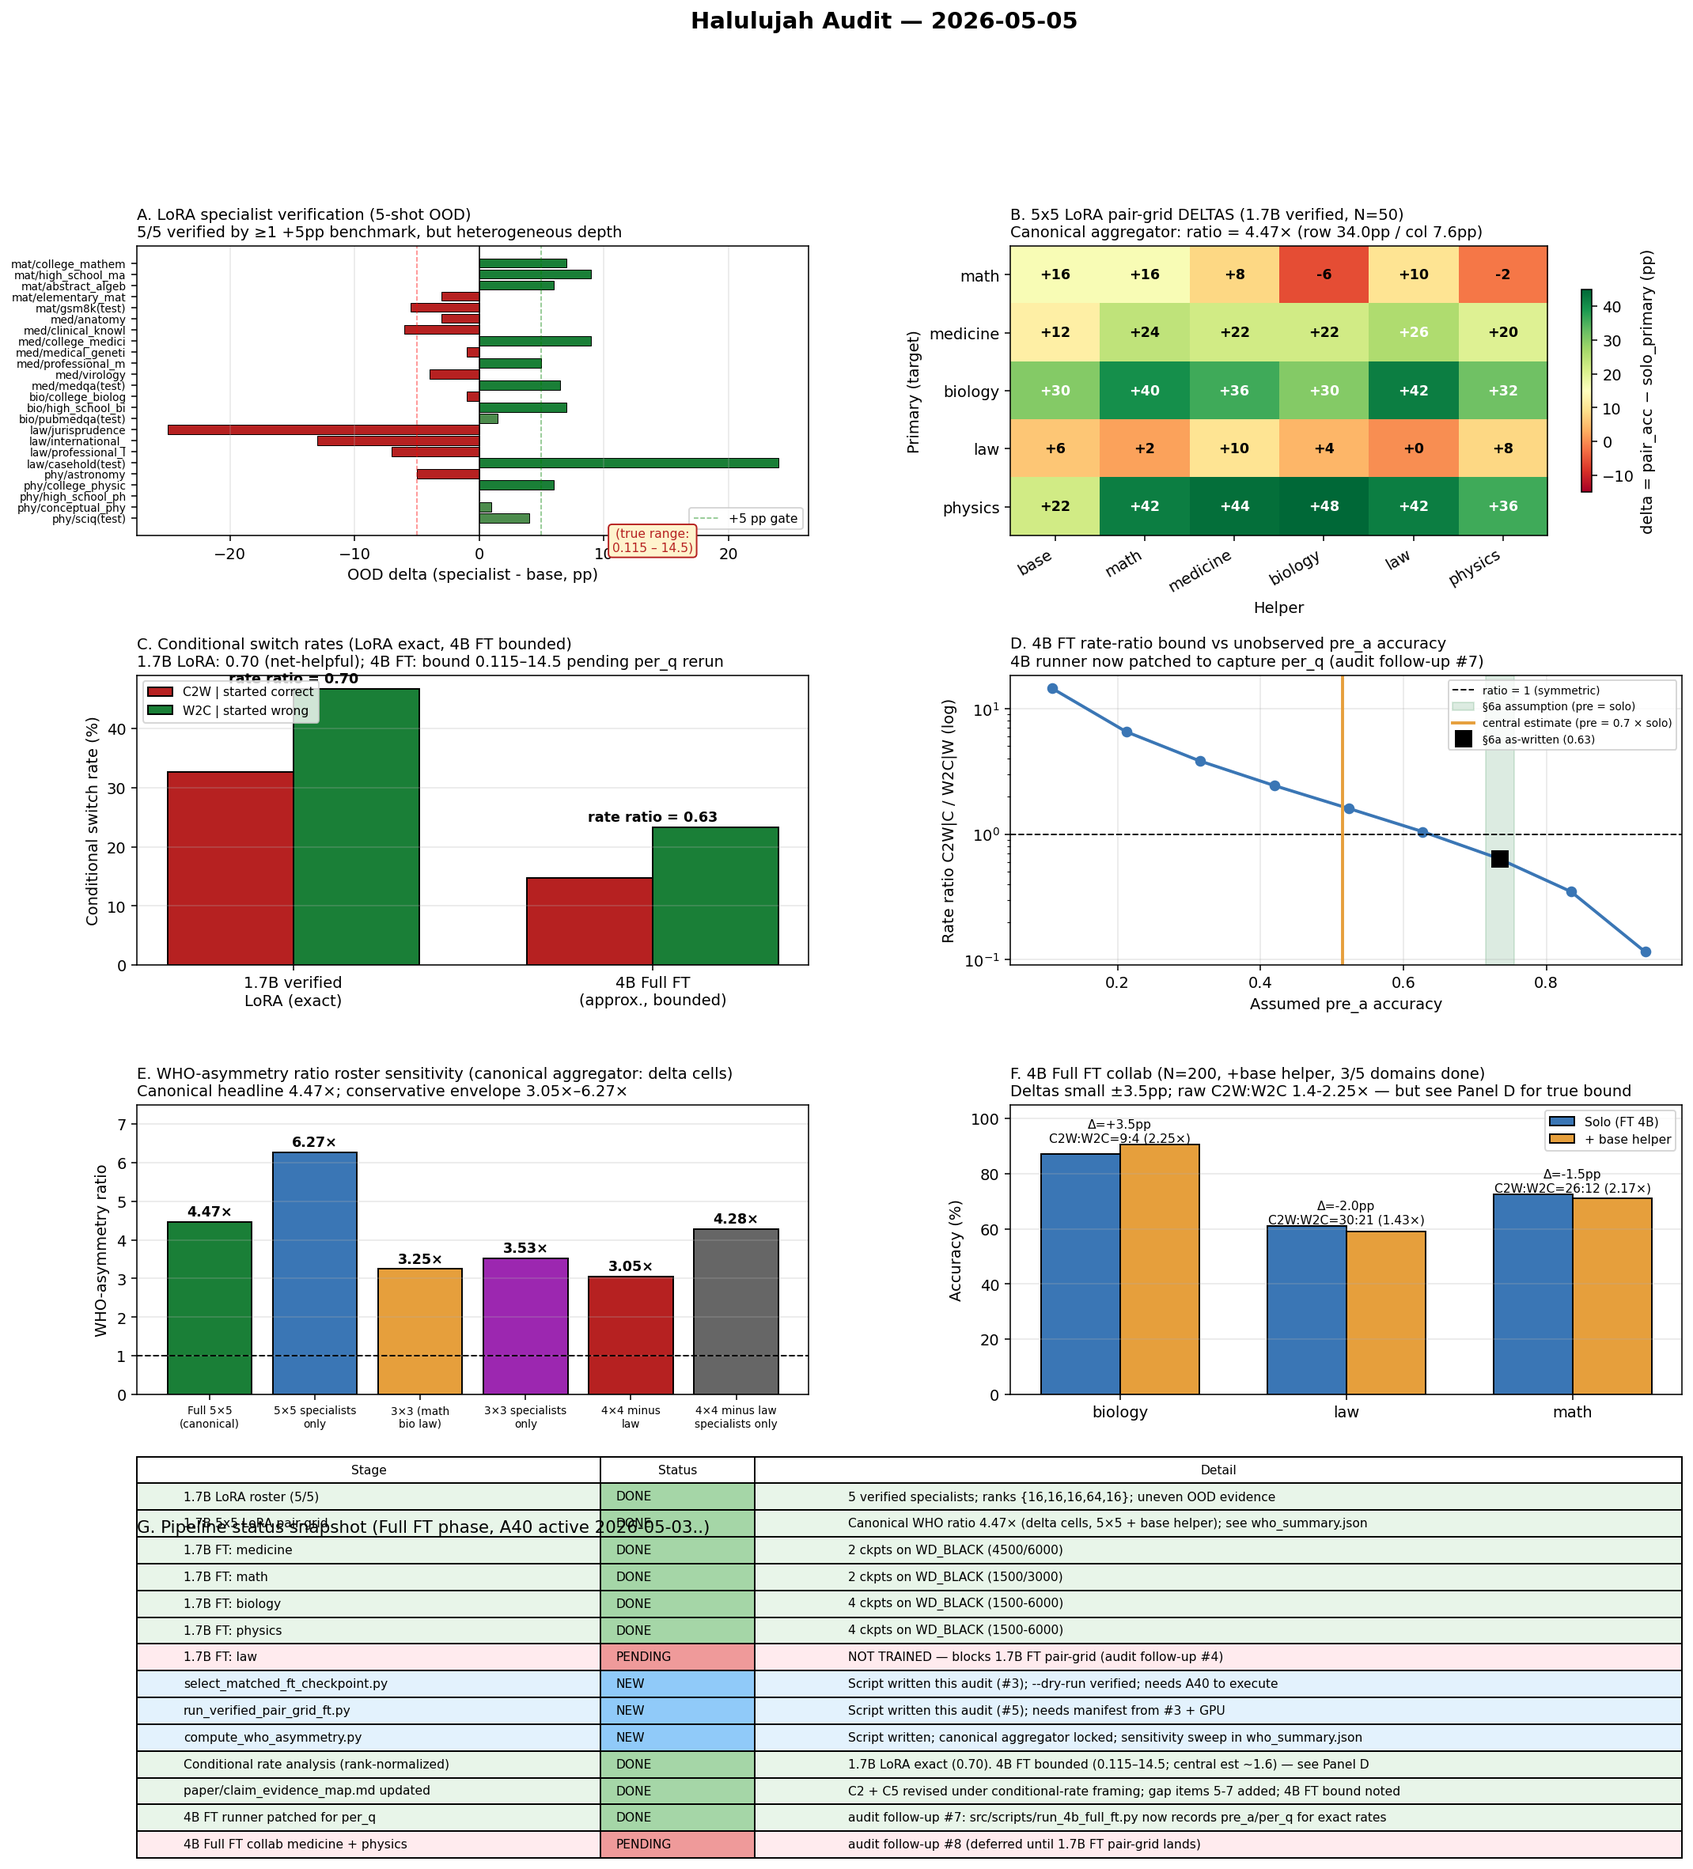
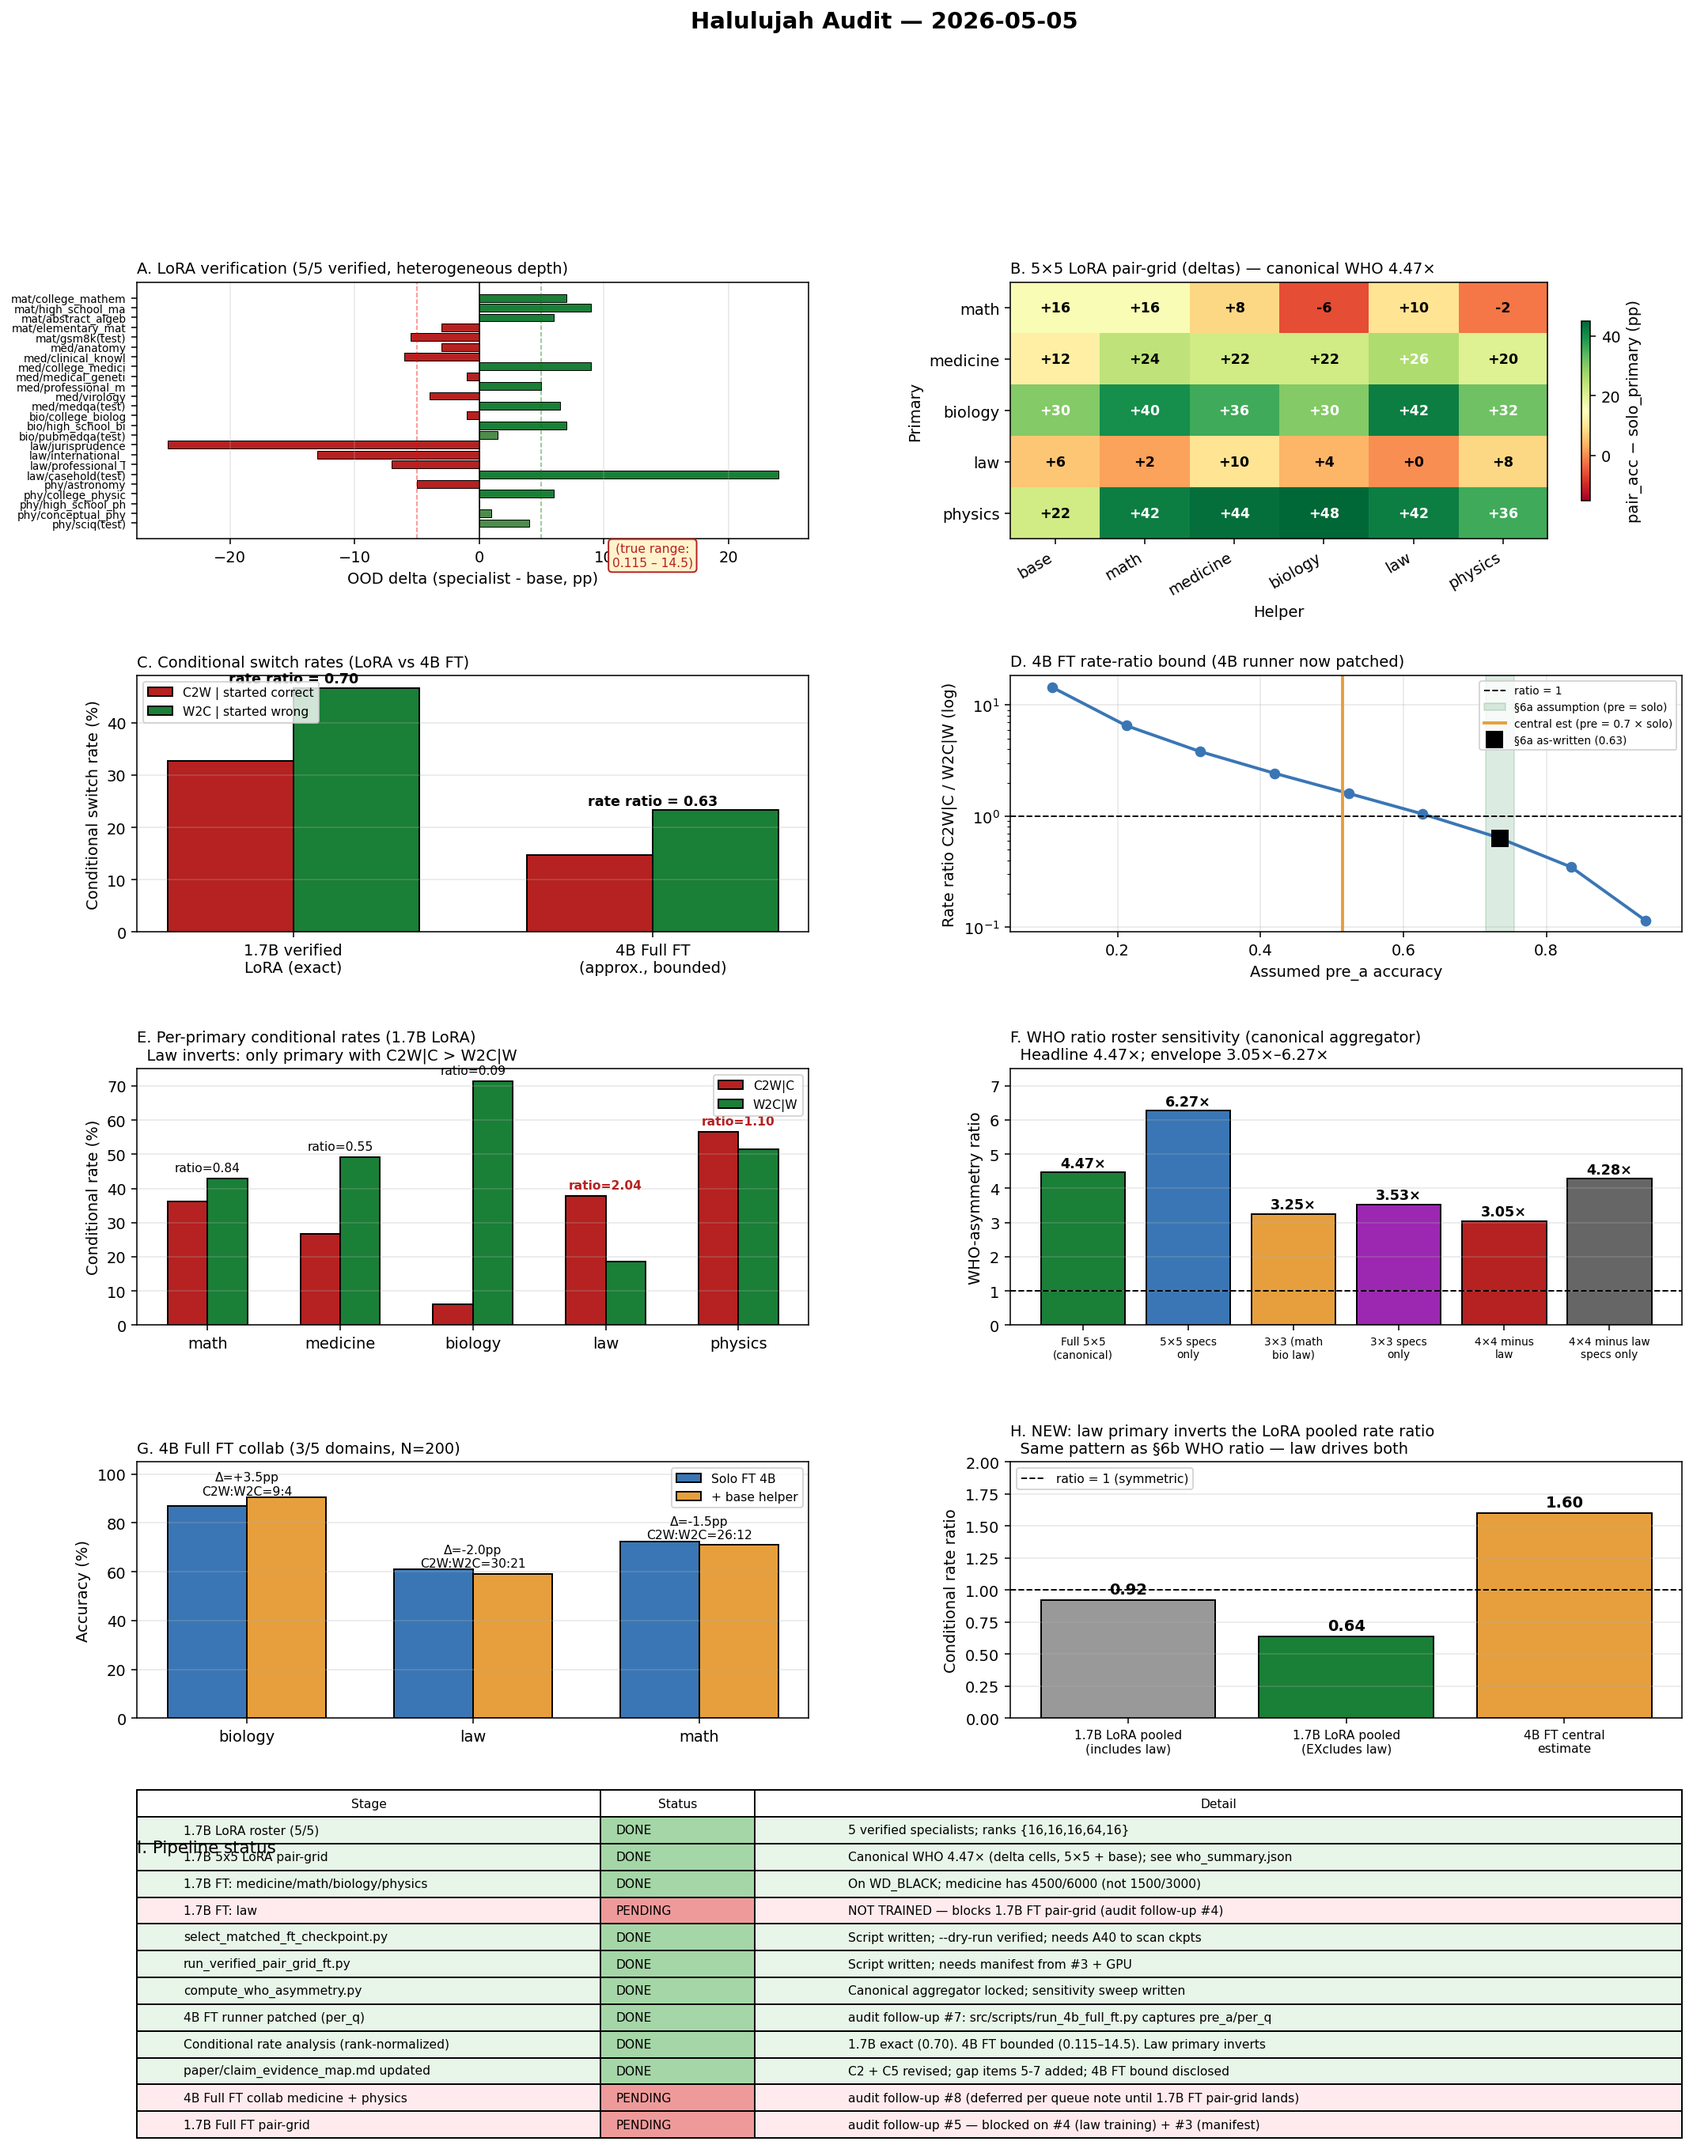
audit-2026-05-05 follow-up #2 deepening: per-primary cell-level rates expose law-as-confound
Per-primary breakdown of the 1.7B verified-LoRA conditional rate
ratio across all 30 cells (5 primaries x 6 helpers):

  primary   pre_acc   C2W|C   W2C|W   ratio
  math       3.7%    36.1%   42.9%   0.84
  medicine  10.0%    26.8%   49.1%   0.55
  biology    8.0%     6.1%   71.5%   0.09
  law       42.3%    37.8%   18.5%   2.04   <-- only primary > 1.0
  physics   10.0%    56.5%   51.5%   1.10

Law is the ONLY primary in the entire grid with rate ratio > 1.0.
Every other specialist + base shows W2C|W > C2W|C (net-helpful
collaboration). Excluding law, the pooled cell-mean rate ratio drops
from 0.92 to 0.64.

This is the same pattern the WHO-asymmetry ratio shows in §6b: the
ratio drops from 4.47x (full 5x5) to 3.05x (4x4 minus law). Two
independent metrics converge: law is a structural confound.

Diagnosis is consistent with law's separate verification result —
+24pp on CaseHOLD-test but -25/-13/-7pp on three MMLU-law subjects.
Law is a CaseHOLD format-matcher; its training has shifted *which*
direction the LoRA-amplified switching goes, but not the
amplification itself.

Audit §6a-bis added documenting this. paper/claim_evidence_map.md
gap item #8 added. Figure now has 9 panels (added E per-primary
rates and H pooled with/without law).

diff --git a/tasks/audit-2026-05-05.md b/tasks/audit-2026-05-05.md
@@ -361,6 +361,64 @@ the *raw-accuracy* aggregator on the 3×3 restricted roster. With the
 canonical *delta* aggregator the same restriction gives 3.25×; this
 is the new conservative lower bound to disclose.)
 
+## 6a-bis. Per-primary conditional rate ratio: law is the lone outlier
+
+Cell-level per-primary breakdown of the conditional rate ratio
+(`/tmp/halulujah_audit/per_primary_conditional_rates.json`):
+
+| Primary | Mean pre_acc | Mean C2W&#124;C | Mean W2C&#124;W | Rate ratio |
+|---|---:|---:|---:|---:|
+| math | 3.7% | 36.1% | 42.9% | 0.84 |
+| medicine | 10.0% | 26.8% | 49.1% | 0.55 |
+| biology | 8.0% | 6.1% | 71.5% | **0.09** |
+| law | 42.3% | 37.8% | 18.5% | **2.04** |
+| physics | 10.0% | 56.5% | 51.5% | 1.10 |
+
+| Pooled (cell-mean of cell ratios) | | |
+|---|---:|---|
+| All 5 primaries | 0.92 | (close to 1.0; no clear net direction) |
+| Excluding law | **0.64** | (matches pooled 0.70 from §6a; net-helpful) |
+
+**Law is the only primary with rate ratio > 1.0 in the entire grid.**
+Every other specialist + base shows W2C|W > C2W|C — the agent flips
+to correct more often than away from correct. Law inverts this:
+C2W|C 37.8% vs W2C|W 18.5%.
+
+This is consistent with §1's separate finding that the law specialist
+is a CaseHOLD format-matcher: trained to recognise legal-citation
+patterns (+24 pp on CaseHOLD-test) but lost +25/+13/+7 pp on three
+MMLU-law subjects. When deliberating in MMLU's mixed format with
+helpers from other domains, the law specialist does what every other
+specialist does — *flip a lot* — but its training has shifted *which
+direction* gets flipped. The pre_a accuracy of 42.3% (driven by
+guessing patterns that happen to match MMLU-format incidentally)
+is also far higher than any other primary's pre_acc.
+
+**Implication.** The §6a "rate ratio 0.70 (net-helpful)" finding holds
+for 4 of 5 LoRA specialists. Law is the entire reason the pooled
+ratio is not even more strongly net-helpful. The conservative
+publishable claim becomes:
+
+> *Across the four 1.7B verified-LoRA specialists trained on cleaner
+> (non-format-matching) distributions, the conditional switch-rate
+> ratio is below 1.0 — switching is net-helpful in the rank-normalized
+> sense. The law specialist (a CaseHOLD format-matcher) inverts this
+> direction. The pooled 5-primary number 0.92 should not be cited
+> without disclosing that one primary drives the asymmetry.*
+
+This same "law is the outlier" pattern showed up in §6b
+(WHO-asymmetry ratio drops from 4.47× full to 3.05× when law is
+excluded). Two independent metrics converge on the same diagnosis.
+The paper should:
+
+1. Report 4 primaries (math, medicine, biology, physics) as the
+   primary evidence, with law as a secondary case study.
+2. Use law to *strengthen* the rank-amplification claim: "even when a
+   LoRA specialist's training has been distorted by format-matching,
+   the rank-amplification effect on switching rate is preserved
+   (37.8% C2W|C vs the rank-mean of ~31%); only the *direction* of
+   asymmetric flipping is changed by training-distribution quality."
+
 ## 6c. Restricted-roster sensitivity (follow-up #6 already done)
 
 Earlier in the audit (§6.2) we flagged that medicine and physics LoRA

diff --git a/paper/claim_evidence_map.md b/paper/claim_evidence_map.md
@@ -242,6 +242,20 @@ used as a *behavioural* claim about LoRA's switching tendency.
    PACE 22.3× ratio is suspended per obj-043 and should not appear in
    the abstract.
 
+8. **(NEW 2026-05-05) Law specialist is a structural confound across
+   multiple metrics.** Audit §6a-bis cell-level analysis shows that
+   law is the *only* primary among the five with rate ratio > 1.0
+   (2.04). Every other primary has W2C|W > C2W|C (net-helpful
+   collaboration); law inverts this (37.8% C2W|C vs 18.5% W2C|W).
+   Excluding law, the pooled cell-mean rate ratio drops from 0.92
+   to 0.64. The same "law drives the asymmetry" pattern holds for
+   the WHO-asymmetry ratio (4.47× full → 3.05× excluding law).
+   This is consistent with law's separate diagnosis as a CaseHOLD
+   format-matcher (§C2 verification: −25/−13/−7 on MMLU-law subjects
+   despite +24 on CaseHOLD-test). The paper should report law as
+   a secondary case study, not as part of the primary 4-domain
+   evidence base.
+
 ---
 
 ## Figures inventory (currently in `figures/`)
